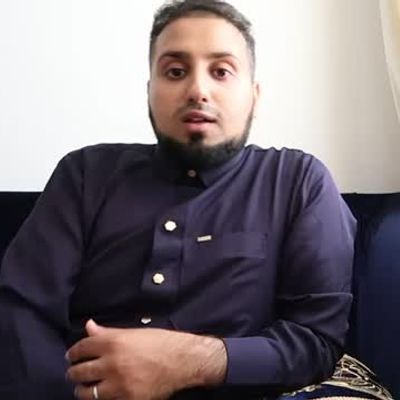
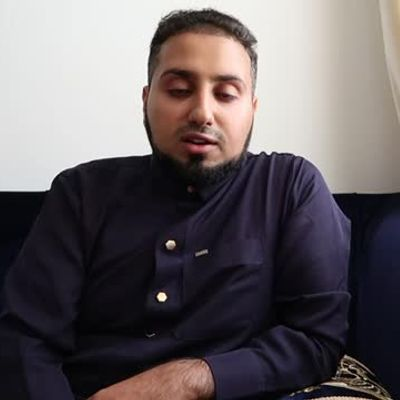
improve random func

diff --git a/scraper/modules/videoProcessor.js b/scraper/modules/videoProcessor.js
@@ -4,7 +4,7 @@ function extractFrame(videoPath, framePath) {
   return new Promise((resolve, reject) => {
     const ffmpegProcess = spawn('ffmpeg', [
       '-i', videoPath,
-      '-ss', '00:00:01.000',
+      '-ss', '00:00:08.000',
       '-vframes', '1',
       '-vf', 'scale=640:360:force_original_aspect_ratio=decrease,pad=640:360:-1:-1:color=black',
       '-y', // Overwrite output files without asking
